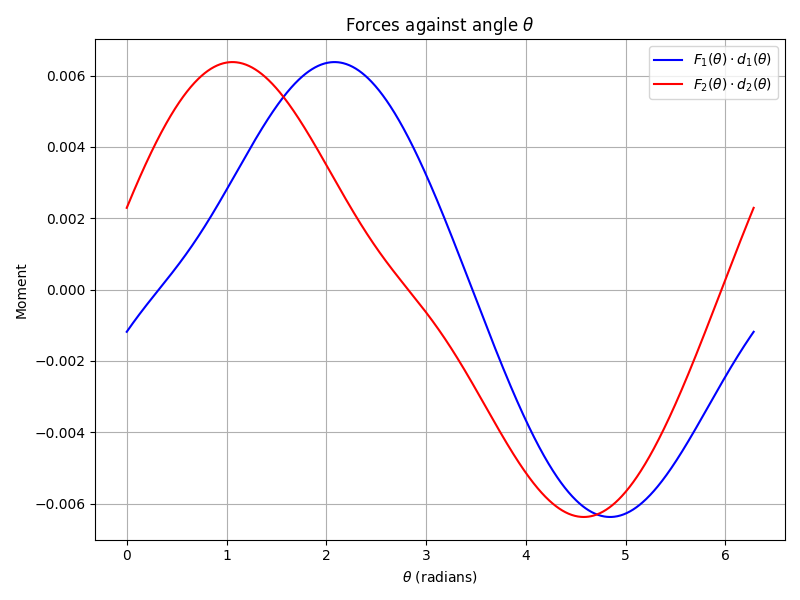
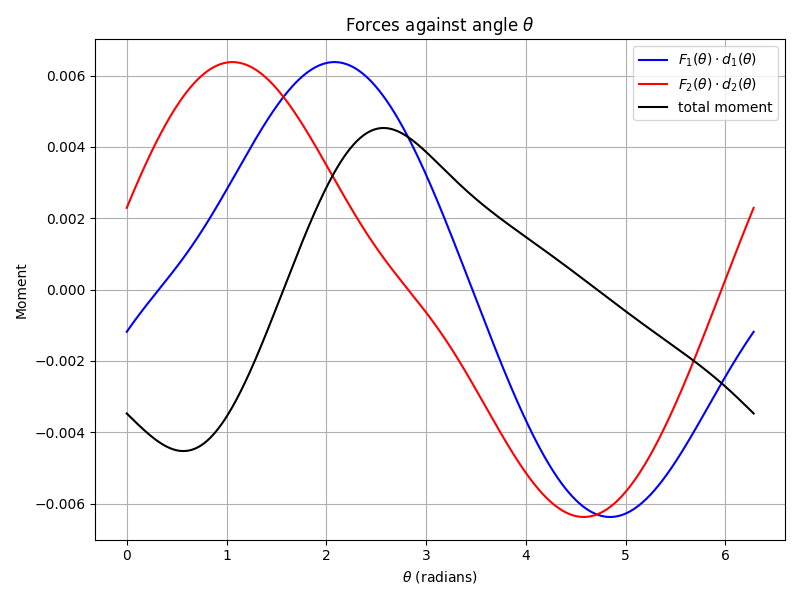
Done

diff --git a/analysis.py b/analysis.py
@@ -21,11 +21,13 @@ theta_values = np.linspace(0, 2 * np.pi, 1000)  # theta goes from 0 to 2π radia
 # Calculate product of F_1 and d_1
 product = F_1(theta_values) * d_1(theta_values)
 product2 = F_2(theta_values) * d_2(theta_values)
+total_moment = product - product2
 
 # Plot
 plt.figure(figsize=(8, 6))
 plt.plot(theta_values, product, label=r'$F_1(\theta) \cdot d_1(\theta)$', color='b')
 plt.plot(theta_values, product2, label=r'$F_2(\theta) \cdot d_2(\theta)$', color='r')
+plt.plot(theta_values, total_moment, label=r'total moment', color='black')
 plt.title(r'Forces against angle $\theta$')
 plt.xlabel(r'$\theta$ (radians)')
 plt.ylabel(r'Moment')
